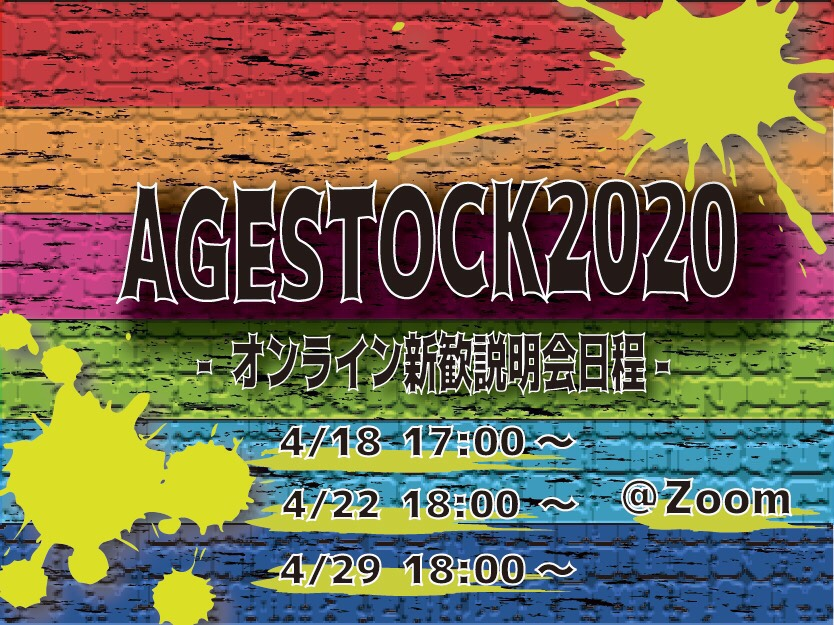
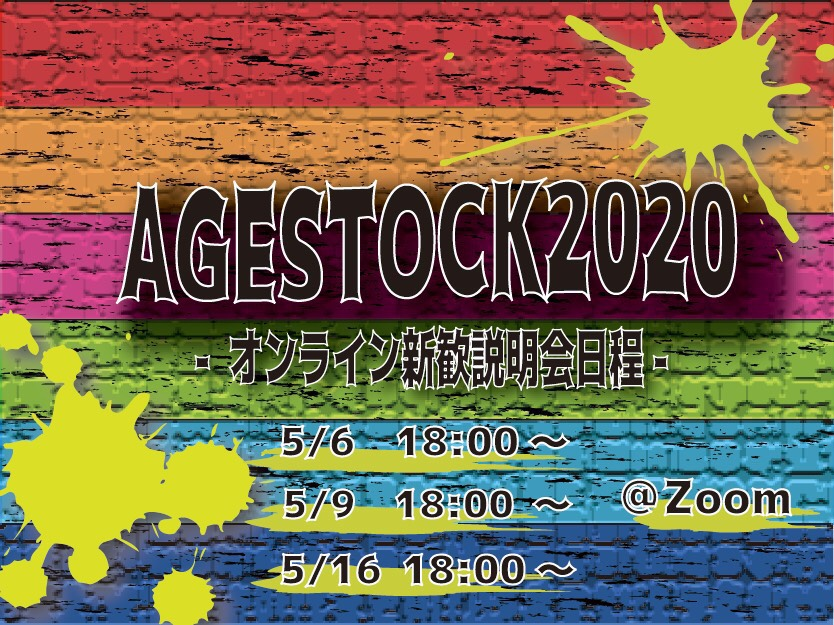
オンライン新歓画像更新

diff --git a/index.html b/index.html
@@ -92,8 +92,8 @@
           <div class="detail">
             <img src="images/online.jpg" alt="オンライン新歓解禁">
           </div>
-          <p>第1回説明会は終了致しました<br>
-            次回は29日(水)18時からです！<br>
+          <p>第3回説明会は終了致しました<br>
+            次回は5月6日(水)18時からです！<br>
             ▼以下で詳細を確認！▼</p>
           <div class="close-btn close">
             <a href="#information">詳細を見る</a>
@@ -136,6 +136,18 @@
                 </tr>
                 <tr>
                   <td>4月29日（水）</td>
+                  <td>18:00〜</td>
+                </tr>
+                <tr>
+                  <td>5月6日（水）</td>
+                  <td>18:00〜</td>
+                </tr>
+                <tr>
+                  <td>5月9日（土）</td>
+                  <td>18:00〜</td>
+                </tr>
+                <tr>
+                  <td>5月16日（土）</td>
                   <td>18:00〜</td>
                 </tr>
               </tbody>
